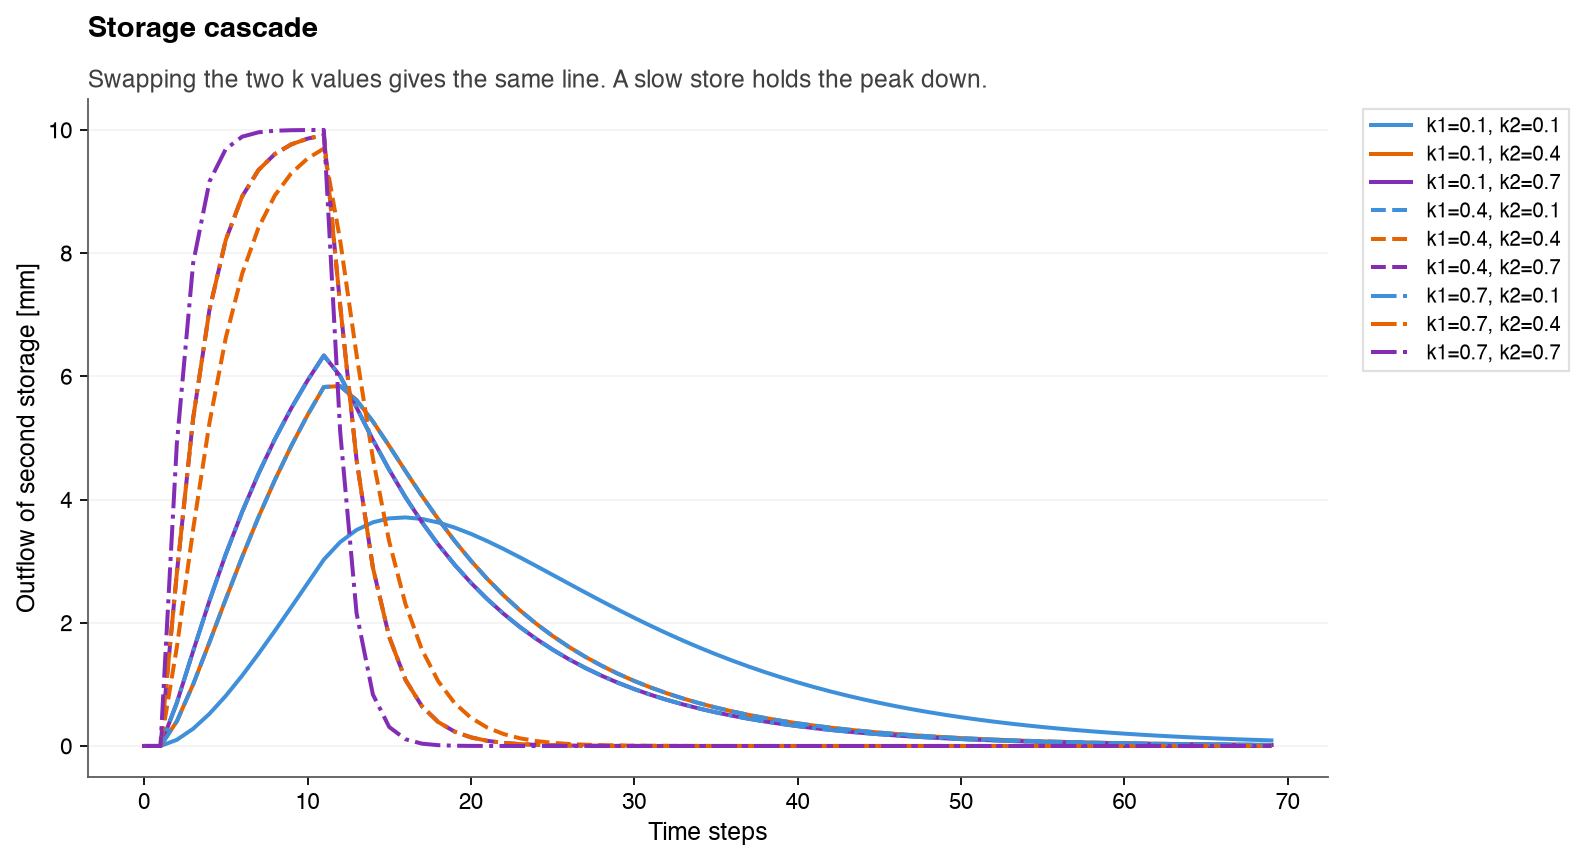
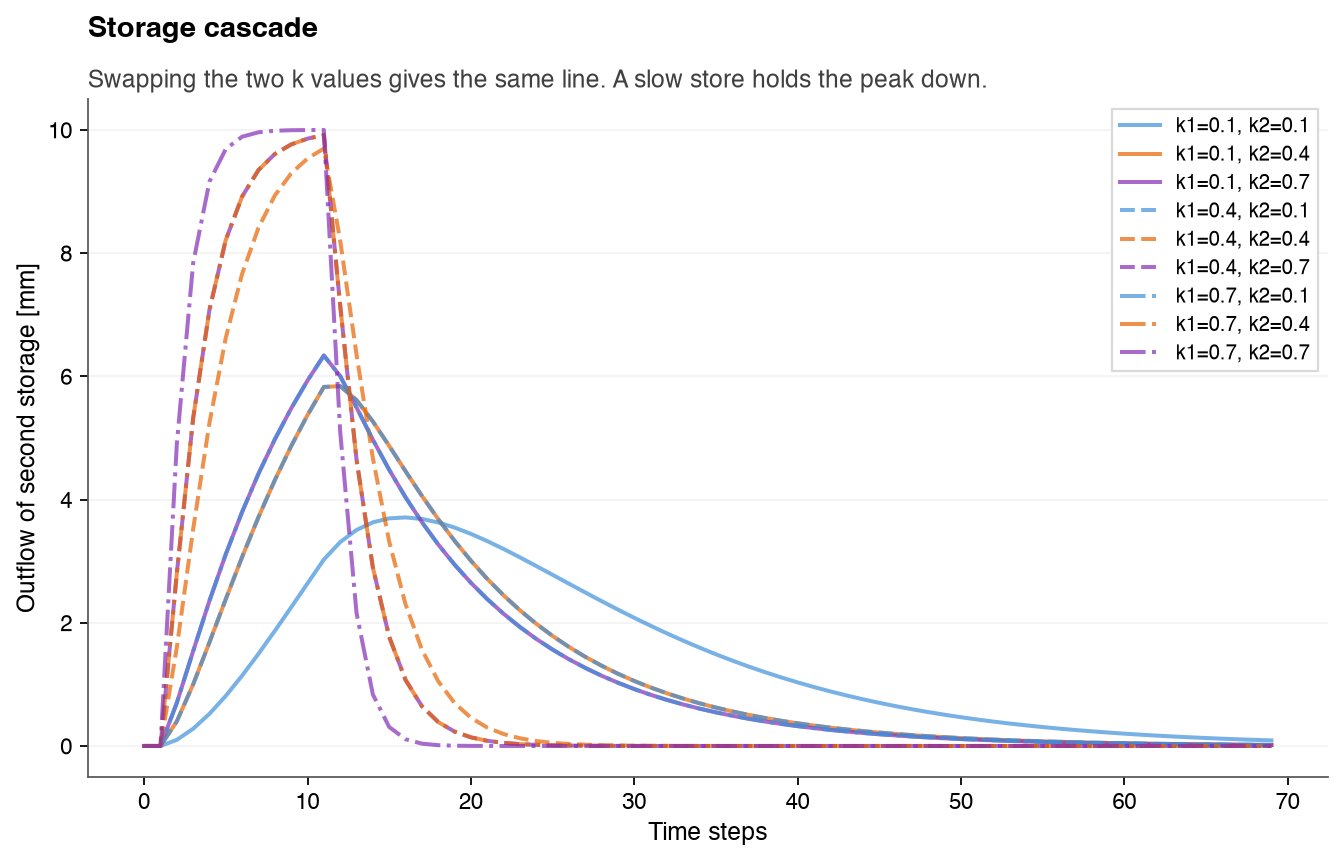
Refactor `style_axes` function and update plotting parameters
- Simplified the `style_axes` function in `plot_style.py` by removing the `legend_outside` parameter and adjusting the legend placement.
- Enhanced the plotting in `main.py` to include transparency for better visual distinction between lines.
- Updated figure styling and saved new versions of figures to reflect these changes.

diff --git a/abgaben/group_ex_02/main.py b/abgaben/group_ex_02/main.py
@@ -68,7 +68,13 @@ for k1 in k_values:
         _, outflow_1 = simulate(inflow, k1)
         _, outflow_2 = simulate(outflow_1, k2)
         print(f"k1={k1}, k2={k2}, max Q2={max(outflow_2):.3f} mm")
-        ax.plot(outflow_2, lw=1.8, label=f"k1={k1}, k2={k2}", **line_style(color_index))
+        ax.plot(
+            outflow_2,
+            lw=1.8,
+            alpha=0.7,
+            label=f"k1={k1}, k2={k2}",
+            **line_style(color_index),
+        )
         color_index += 1
 
 ax.set_xlabel("Time steps")
@@ -78,7 +84,7 @@ set_title(
     "Storage cascade",
     subtitle="Swapping the two k values gives the same line. A slow store holds the peak down.",
 )
-style_axes(ax, legend_outside=True)
+style_axes(ax)
 fig.savefig(FIGURES / "storage_cascade.png")
 print(f"Saved: {FIGURES / 'storage_cascade.png'}")
 plt.show()

diff --git a/plot_style.py b/plot_style.py
@@ -77,14 +77,11 @@ def new_figure():
     return plt.subplots(figsize=(10, 5.5))
 
 
-def style_axes(ax, *, legend_outside: bool = False) -> None:
-    """Horizontal grid, open right side, legend."""
+def style_axes(ax) -> None:
+    """Horizontal grid, open right side, legend inside at the upper right."""
     ax.grid(True, axis="y", alpha=0.35)
     ax.spines["right"].set_visible(False)
-    if legend_outside:
-        ax.legend(loc="upper left", bbox_to_anchor=(1.02, 1))
-    else:
-        ax.legend(loc="upper right")
+    ax.legend(loc="upper right", frameon=True, facecolor="white", framealpha=1)
 
 
 def apply_style() -> None:
